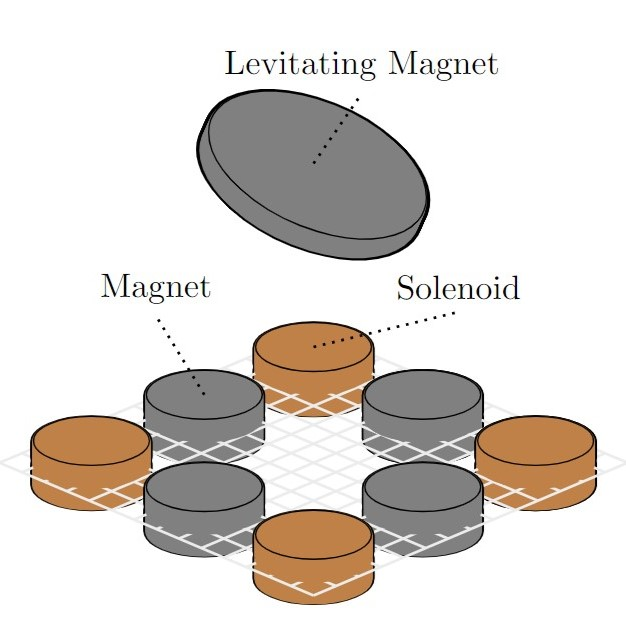
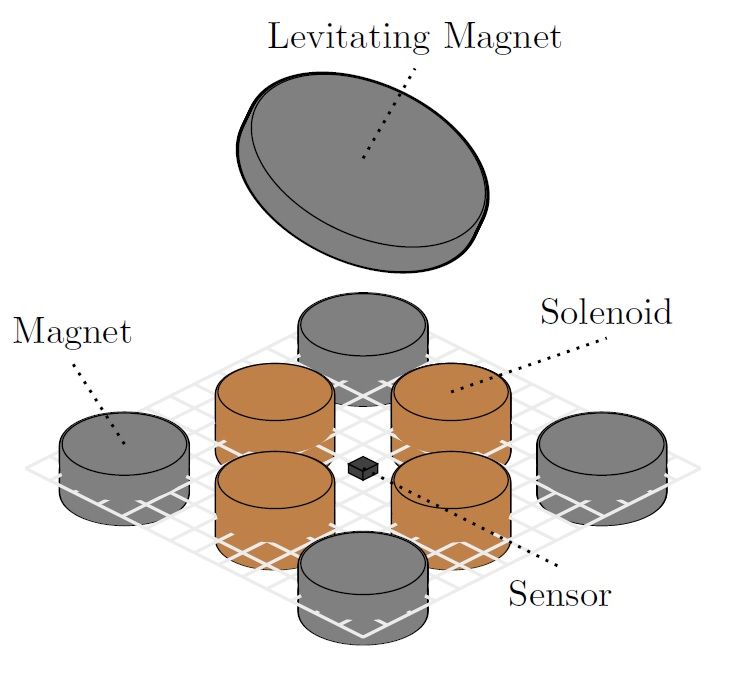
Update readme log and new images/illustrations

diff --git a/README.md b/README.md
@@ -1,7 +1,7 @@
 # Take-home Maglev lab \:magnet\:
 
 <div align="center" style="gap: 50px">
-    <img src="./media/images_and_illustrations/maggy_20_levitating.jpg" alt="First Image" width="300" style="margin-bottom: 10px;"/>
+    <img src="./media/images_and_illustrations/maggy_30_levitating.jpg" alt="First Image" width="300" style="margin-bottom: 10px;"/>
     <img src="./media/images_and_illustrations/maglev_system_illustration.jpg" alt="Second Image" width="300" style="margin-bottom: 10px;"/>
 </div>
 
@@ -29,16 +29,16 @@ Following is information on student reports and hardware development history.
 5. [P. I. D. K. Fosmo, "Control of a magnetic levitation system using feedback linearization", Project thesis, ITK, NTNU, Trondheim, 2023.](./student_contributions/literature/2023_NTNU_project_thesis_pål_fosmo.pdf)
 6. [S. A. Senkaya, "A take home portable MagLev lab for learning electronics and control", Project thesis, ITK, NTNU, Trondheim, 2023.](./student_contributions/literature/2023_NTNU_project_thesis_sacit_ali_senkaya.pdf)
 ### 2024
-1. P. I. D. K. Fosmo, S. A. Senkaya, S. Graffer, H. A. Engmark, D. Varagnolo, "Maggy: Hands-on control learning with a maglev system", M.S. thesis, ITK, NTNU, Trondheim, 2024.
-2. P. I. D. K. Fosmo, H. A. Engmark, D. Varagnolo, "Maglev Systems for Control Education", Maglev24, Malmö, 2024.
+1. [P. I. D. K. Fosmo, S. A. Senkaya, S. Graffer, H. A. Engmark, D. Varagnolo, "Maggy: Hands-on control learning with a maglev system", M.S. thesis, ITK, NTNU, Trondheim, 2024.](https://bth.diva-portal.org/smash/get/diva2:1918096/FULLTEXT01.pdf)
+2. [P. I. D. K. Fosmo, H. A. Engmark, D. Varagnolo, "Maglev Systems for Control Education", Maglev24, Malmö, 2024.](https://ntnuopen.ntnu.no/ntnu-xmlui/handle/11250/3153592)
 ## Version history \:rocket\:
-| **Version** | **Developer** | **Goal**                                       | **Status**           | **Result**                 |
-|---------|-----------|--------------------------------------------|:----------------:|------------------------|
-| V1.0        | M. Brønstad <br> J. O. Deila <br> J. Dyrskog <br> M. Langklopp          | Leviation                                      | \:white_check_mark\: | Stable levitation ~ 2 min  |
-| V2.0        | M. Brønstad <br> J. O. Deila <br> J. Dyrskog            | Smaller form factor, more robust               | \:white_check_mark\: | Stable levitation >> 2 min |
-| V2.5        | JH Technical AS | Fix minor bugs, improve heating and components | \:white_check_mark\: | Stable levitation >> 2 min              |
-| V2.6        | A. Morselli   | Fix faulty wiring, changing sensors    | \:white_check_mark\:             |  Stable levitation >> 30 min                           |
-| V2.7        | A. Morselli   | Modular design and testbench for V3.0    | \:white_check_mark\:             |                      |
-| V3.0        | A. Morselli   | Modular redesign for first 'Take-home lab'     | \:white_check_mark\:           |                            |
-| V3.1        | M. Leroux   | Adding USB-C power     | \:hammer\:           |                            |
-| V4.0        | M. Leroux   | New form factor and additional sensing for improved stability      | \:hammer\:           |                            |
+| **Version** | **Developer**                                                  | **Goal**                                                      | **Development period** |      **Status**      | **Result**                  |
+| ----------- | -------------------------------------------------------------- | ------------------------------------------------------------- | ---------------------- | :------------------: | --------------------------- |
+| V1.0        | M. Brønstad <br> J. O. Deila <br> J. Dyrskog <br> M. Langklopp | Leviation                                                     | Spring 2022            | \:white_check_mark\: | Stable levitation ~ 2 min   |
+| V2.0        | M. Brønstad <br> J. O. Deila <br> J. Dyrskog                   | Smaller form factor, more robust                              | Summer 2022            | \:white_check_mark\: | Stable levitation >> 2 min  |
+| V2.5        | JH Technical AS                                                | Fix minor bugs, improve heating and components                | Spring 2024            | \:white_check_mark\: | Stable levitation >> 2 min  |
+| V2.6        | A. Morselli                                                    | Fix faulty wiring, changing sensors                           | Spring 2024            | \:white_check_mark\: | Stable levitation >> 30 min |
+| V2.7        | A. Morselli                                                    | Modular design and testbench for V3.0                         | Spring 2024            | \:white_check_mark\: | Decisions on design         |
+| V3.0        | A. Morselli                                                    | Modular redesign for first 'Take-home lab'                    | Summer 2024            | \:white_check_mark\: | Decisions on design         |
+| V3.1        | M. Leroux                                                      | Adding USB-C power                                            | Fall 2024              | \:white_check_mark\: | Improved power delivery     |
+| V4.0        | M. Leroux                                                      | New form factor and additional sensing for improved stability | Fall 2024              | \:white_check_mark\: | Improved control            |
